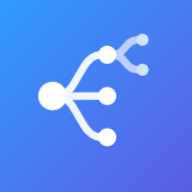
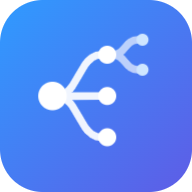
갤럭시 폰·태블릿 앱 설치: 설치 버튼/안내 바, 마스커블 아이콘, 바로가기

diff --git a/js/app.js b/js/app.js
@@ -60,6 +60,7 @@ function boot() {
   window.addEventListener('hashchange', route);
   matchMedia('(prefers-color-scheme: dark)').addEventListener('change', applyTheme);
   route();
+  setTimeout(showInstallBar, 1500);
   if ('serviceWorker' in navigator && location.protocol !== 'file:') navigator.serviceWorker.register('sw.js').catch(() => {});
 }
 
@@ -73,6 +74,49 @@ function applyTheme() {
   GV.themeChanged?.();
 }
 
+// ---------- 앱으로 설치 (PWA) ----------
+let installEvt = null;
+const MOBILE = /android/i.test(navigator.userAgent);
+const installed = () => matchMedia('(display-mode: standalone)').matches;
+window.addEventListener('beforeinstallprompt', (e) => { e.preventDefault(); installEvt = e; showInstallBar(); if (current === 'settings') renderSettings(); });
+window.addEventListener('appinstalled', () => { installEvt = null; $('#installBar')?.remove(); toast('앱으로 설치했어요. 홈 화면에서 열어 보세요'); });
+
+function showInstallBar() {
+  if (installed() || $('#installBar') || S.settings.installHidden) return;
+  if (!MOBILE && !installEvt) return;
+  const bar = document.createElement('div');
+  bar.id = 'installBar';
+  bar.className = 'install-bar';
+  bar.innerHTML = `<img src="icons/icon-192.png" alt=""><div><b>갈래를 앱으로 설치</b><small>홈 화면에서 바로 열고, 오프라인에서도 써요</small></div>
+    <button class="btn primary small" data-act="install">설치</button><button class="x" data-act="install-x" aria-label="닫기">✕</button>`;
+  bar.addEventListener('click', (e) => {
+    const b = e.target.closest('[data-act]');
+    if (!b) return;
+    if (b.dataset.act === 'install') installApp();
+    else { S.saveSettings({ installHidden: true }); bar.remove(); }
+  });
+  document.body.append(bar);
+}
+
+async function installApp() {
+  if (installed()) return toast('이미 앱으로 실행 중이에요');
+  if (installEvt) {
+    installEvt.prompt();
+    const r = await installEvt.userChoice.catch(() => null);
+    if (r?.outcome === 'accepted') $('#installBar')?.remove();
+    installEvt = null;
+    return;
+  }
+  // 안드로이드 (갤럭시 폰·태블릿): 크롬 / 삼성 인터넷
+  const samsung = /SamsungBrowser/i.test(navigator.userAgent);
+  const steps = samsung
+    ? `<li>주소창 오른쪽의 <b>⬇ 설치 아이콘</b>을 누르거나</li><li>아래 <b>≡ 메뉴 → 현재 페이지 추가 → 홈 화면</b></li><li><b>추가</b>를 누르면 홈 화면에 갈래 아이콘이 생겨요</li>`
+    : `<li>Chrome 오른쪽 위 <b>⋮ 메뉴</b>를 누르세요</li><li><b>앱 설치</b> (또는 <b>홈 화면에 추가 → 설치</b>)를 누르세요</li><li>홈 화면·앱 서랍에 갈래 아이콘이 생겨요</li>`;  openDialog(`<div class="dlg-body">
+    <p class="dlg-msg">홈 화면에 앱으로 설치</p>
+    <ol class="install-steps">${steps}</ol>
+    <p class="muted small">설치하면 주소창 없이 앱처럼 열리고, 인터넷이 없어도 마지막으로 열었던 내용을 볼 수 있어요. 데이터는 Google 로그인으로 PC와 동기화돼요.</p>
+    <div class="dlg-actions"><button class="btn primary" data-close="">확인</button></div></div>`);
+}
 // ---------- 라우팅 ----------
 export function go(view, id) {
   const h = '#' + view + (id ? '/' + id : '');
@@ -138,6 +182,7 @@ function renderSettings() {
   if (active && el.contains(active) && active.matches('input[type=text],textarea')) return;
   el.innerHTML = `<div class="page narrow">
     <header class="page-h"><div><h1>설정</h1></div></header>
+    ${installed() ? '' : `<section class="panel install-panel"><img src="icons/icon-192.png" alt=""><div><b>앱으로 설치</b><span class="muted small">홈 화면에 앱으로 추가 (갤럭시 폰·태블릿, PC Chrome)</span></div><button class="btn primary" data-act="install">설치</button></section>`}
     <section class="panel">
       <h3>Google Drive 동기화</h3>
       <p class="muted small">PC·모바일 어디서든 같은 데이터를 써요. 내 드라이브의 <code>Galrae/galrae-data.json</code> 파일 하나만 사용하며(drive.file 권한), 다른 파일은 읽지 않아요.</p>
@@ -212,6 +257,7 @@ async function onSettingsClick(e) {
   const b = e.target.closest('[data-act]');
   if (!b) return;
   switch (b.dataset.act) {
+    case 'install': return installApp();
     case 'login': return Sync.login();
     case 'logout': if (await confirmDlg('Google Drive 연결을 해제할까요?', { detail: '이 기기의 데이터는 그대로 남아요.' })) Sync.logout(); return;
     case 'sync-now': return Sync.runSync({ manual: true });

diff --git a/styles.css b/styles.css
@@ -589,3 +589,14 @@ textarea.drop { box-shadow: 0 0 0 3px var(--accent) !important; }
 .note-tg { border: 0; background: var(--bg3); color: var(--muted); font-size: 12px; padding: 2px 8px; border-radius: 99px; }
 .note-tg:hover { color: var(--accent); }
 .note-tg.on { background: var(--accent-2); color: var(--accent); }
+/* ---------- 앱 설치 ---------- */
+.install-bar { position: fixed; left: 12px; right: 12px; top: calc(10px + env(safe-area-inset-top)); z-index: 90; display: flex; align-items: center; gap: 12px; padding: 10px 10px 10px 12px; border-radius: 18px; background: var(--glass); -webkit-backdrop-filter: saturate(180%) blur(24px); backdrop-filter: saturate(180%) blur(24px); box-shadow: var(--shadow-lg); animation: rise .3s cubic-bezier(.3,.7,.4,1); max-width: 520px; margin: 0 auto; }
+.install-bar img, .install-panel img { width: 44px; height: 44px; border-radius: 11px; flex: none; }
+.install-bar div, .install-panel div { flex: 1; min-width: 0; display: flex; flex-direction: column; }
+.install-bar b { font-size: 15px; }
+.install-bar small { color: var(--muted); font-size: 12.5px; }
+.install-bar .x { border: 0; background: none; color: var(--muted2); font-size: 15px; padding: 6px; }
+.install-panel { display: flex; align-items: center; gap: 14px; }
+.install-panel b { font-size: 16px; }
+.install-steps { margin: 4px 0 8px; padding-left: 20px; display: grid; gap: 8px; line-height: 1.6; }
+@media (display-mode: standalone) { .install-panel, .install-bar { display: none !important; } }

diff --git a/sw.js b/sw.js
@@ -1,9 +1,9 @@
 // 오프라인 지원: 앱 파일은 캐시 우선 + 백그라운드 갱신, Google API는 항상 네트워크
-const CACHE = 'galrae-v4';
+const CACHE = 'galrae-v5';
 const ASSETS = [
   './', 'index.html', 'styles.css', 'manifest.webmanifest',
   'js/app.js', 'js/util.js', 'js/store.js', 'js/sync.js', 'js/train.js', 'js/outline.js', 'js/graph.js', 'js/graphview.js', 'js/images.js', 'js/editor.js',
-  'icons/icon.svg', 'icons/icon-192.png', 'icons/icon-512.png',
+  'icons/icon.svg', 'icons/icon-192.png', 'icons/icon-512.png', 'icons/maskable-512.png', 'icons/apple-touch-icon.png',
 ];
 
 self.addEventListener('install', (e) => {

diff --git a/js/outline.js b/js/outline.js
@@ -118,7 +118,6 @@ function renderList() {
     const m = mm.get(id);
     const meta = [
       n.note?.trim() ? `<button class="note-tg ${notesOpen.has(id) ? 'on' : ''}" data-act="note" tabindex="-1" title="외울 것 펼치기/접기">📝 외울 것</button>` : '',
-      n.cues?.some((c) => c.trim()) ? `<i title="문제 단서">?${n.cues.filter((c) => c.trim()).length}</i>` : '',
       kids.length ? `<i class="cnt" title="하위 갈래">${kids.length}</i>` : '',
       n.star ? '<i class="st">★</i>' : '',
       m != null ? `<i class="dot" style="--m:${m}" title="숙련도 ${Math.round(m * 100)}%"></i>` : '',

diff --git a/index.html b/index.html
@@ -12,7 +12,7 @@
 <title>갈래 · 경우의 수 트레이너</title>
 <link rel="manifest" href="manifest.webmanifest">
 <link rel="icon" href="icons/icon.svg" type="image/svg+xml">
-<link rel="apple-touch-icon" href="icons/icon-192.png">
+<link rel="apple-touch-icon" href="icons/apple-touch-icon.png">
 <link rel="stylesheet" href="https://cdn.jsdelivr.net/gh/orioncactus/pretendard@v1.3.9/dist/web/variable/pretendardvariable-dynamic-subset.min.css">
 <link rel="stylesheet" href="styles.css">
 </head>
